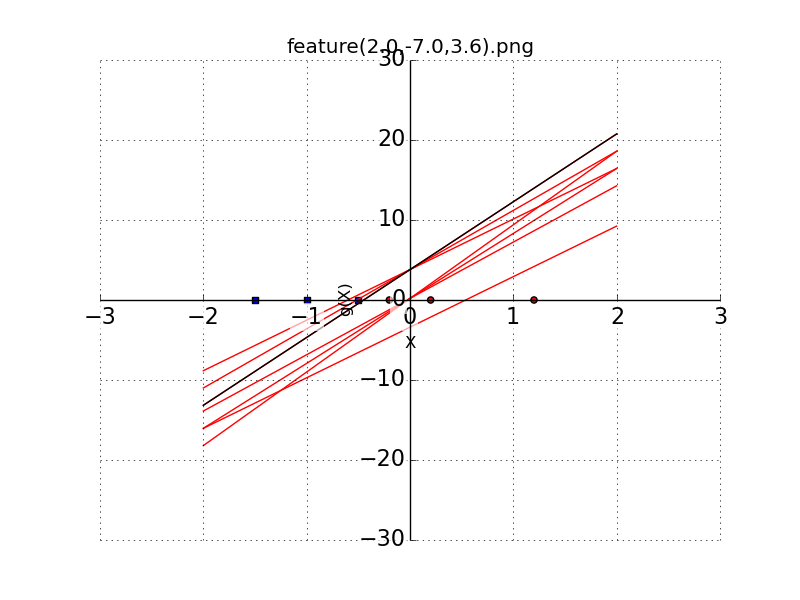
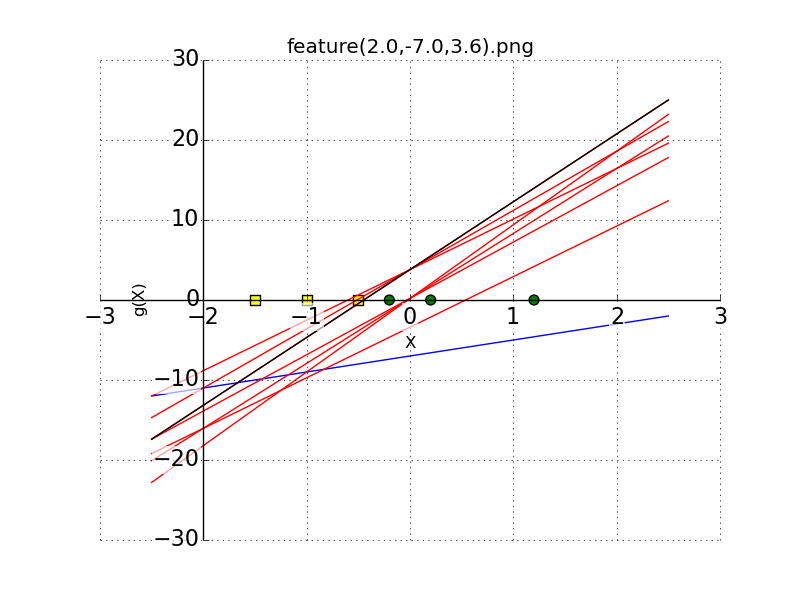
add showFeatureSpace

diff --git a/perceptron/perceptron.py b/perceptron/perceptron.py
@@ -7,12 +7,20 @@ matplotlib.use("Agg")
 import numpy as np
 import matplotlib.pyplot as plt
 import matplotConfig
-        
+
+# 識別関数
 def g(X, W):
     v = 0
     for i in range(len(W)):
         v += W[i] * X[i]
     return v
+
+# 識別関数の描画
+def showGfunction(color):
+    x = np.linspace(-2.5, 2.5)
+    y = W[0] + x * W[1]
+    plt.plot(x, y, c=color, linewidth=1.0, linestyle="-")
+    
     
 # 重み空間表示
 def showWeightSpace(X, W, row):
@@ -67,11 +75,13 @@ def showFeatureSpace(X, W , row):
     
     canContinue = True
     
+    showGfunction("blue")
+    
     for i in range(len(X)):
         if X[i][2] == 1:
-            plt.scatter(X[i][1], 0, c = 'red', marker = "o")
+            plt.scatter(X[i][1], 0, c = 'green', s = 50, marker = "o")
         elif X[i][2] == 2:
-            plt.scatter(X[i][1], 0, c = 'blue', marker = "s")
+            plt.scatter(X[i][1], 0, c = 'yellow', s= 50, marker = "s")
     
     while canContinue:
         canContinue = False
@@ -84,23 +94,17 @@ def showFeatureSpace(X, W , row):
                 print("1→2")
                 W[0] = W[0] + row * X[i][0]
                 W[1] = W[1] + row * X[i][1]
-                x = np.linspace(-2, 2)
-                y = W[0] + x * W[1]
-                plt.plot(x, y, c="red", linewidth=1.0, linestyle="-")
+                showGfunction("red")
                 canContinue = True
             elif g_value > 0 and X[i][2] == 2:
                 print("2→1")
                 W[0] = W[0] - row * X[i][0]
                 W[1] = W[1] - row * X[i][1]
-                x = np.linspace(-2, 2)
-                y = W[0] + x * W[1]
-                plt.plot(x, y, c="red", linewidth=1.0, linestyle="-")
+                showGfunction("red")
                 canContinue = True
     
     # 学習後識別関数の表示
-    x = np.linspace(-2, 2)
-    y = W[0] + x * W[1]
-    plt.plot(x, y, c="black", linewidth=1.0, linestyle="-")
+    showGfunction("black")
     
     matplotConfig.forFeature(filename)
     plt.savefig(filename) #CUIでshowは使えない
@@ -110,9 +114,24 @@ if __name__ == '__main__':
     # 初期値
     X = [[1.0, 1.2, 1], [1.0, 0.2, 1], [1.0, -0.2, 1],
         [1.0, -0.5, 2], [1.0, -1.0, 2], [1.0, -1.5, 2]]
+        
     W = [-7.0, 2.0] #W0, W1
+    W_copy = list(W)
     row = 3.6
-    
     showWeightSpace(X, W, row)
+    W = list(W_copy)
+    showFeatureSpace(X, W, row)
+    
     W = [-7.0, 2.0] #W0, W1
+    W_copy = list(W)
+    row = 1.2
+    showWeightSpace(X, W, row)
+    W = list(W_copy)
+    showFeatureSpace(X, W, row)
+    
+    W = [11.0, 5.0] #W0, W1
+    W_copy = list(W)
+    row = 2.0
+    showWeightSpace(X, W, row)
+    W = list(W_copy)
     showFeatureSpace(X, W, row)

diff --git a/perceptron/matplotConfig.py b/perceptron/matplotConfig.py
@@ -29,7 +29,9 @@ def forFeature(filename):
     ax.xaxis.set_ticks_position('bottom')
     ax.spines['bottom'].set_position(('data',0))
     ax.yaxis.set_ticks_position('left')
-    ax.spines['left'].set_position(('data',0))
+    ax.spines['left'].set_position(('data',-2))
+    # ax.spines['left'].set_color('none')
+    
     ax.set_title(filename)
     ax.set_xlabel('X')
     ax.set_ylabel('g(X)')
